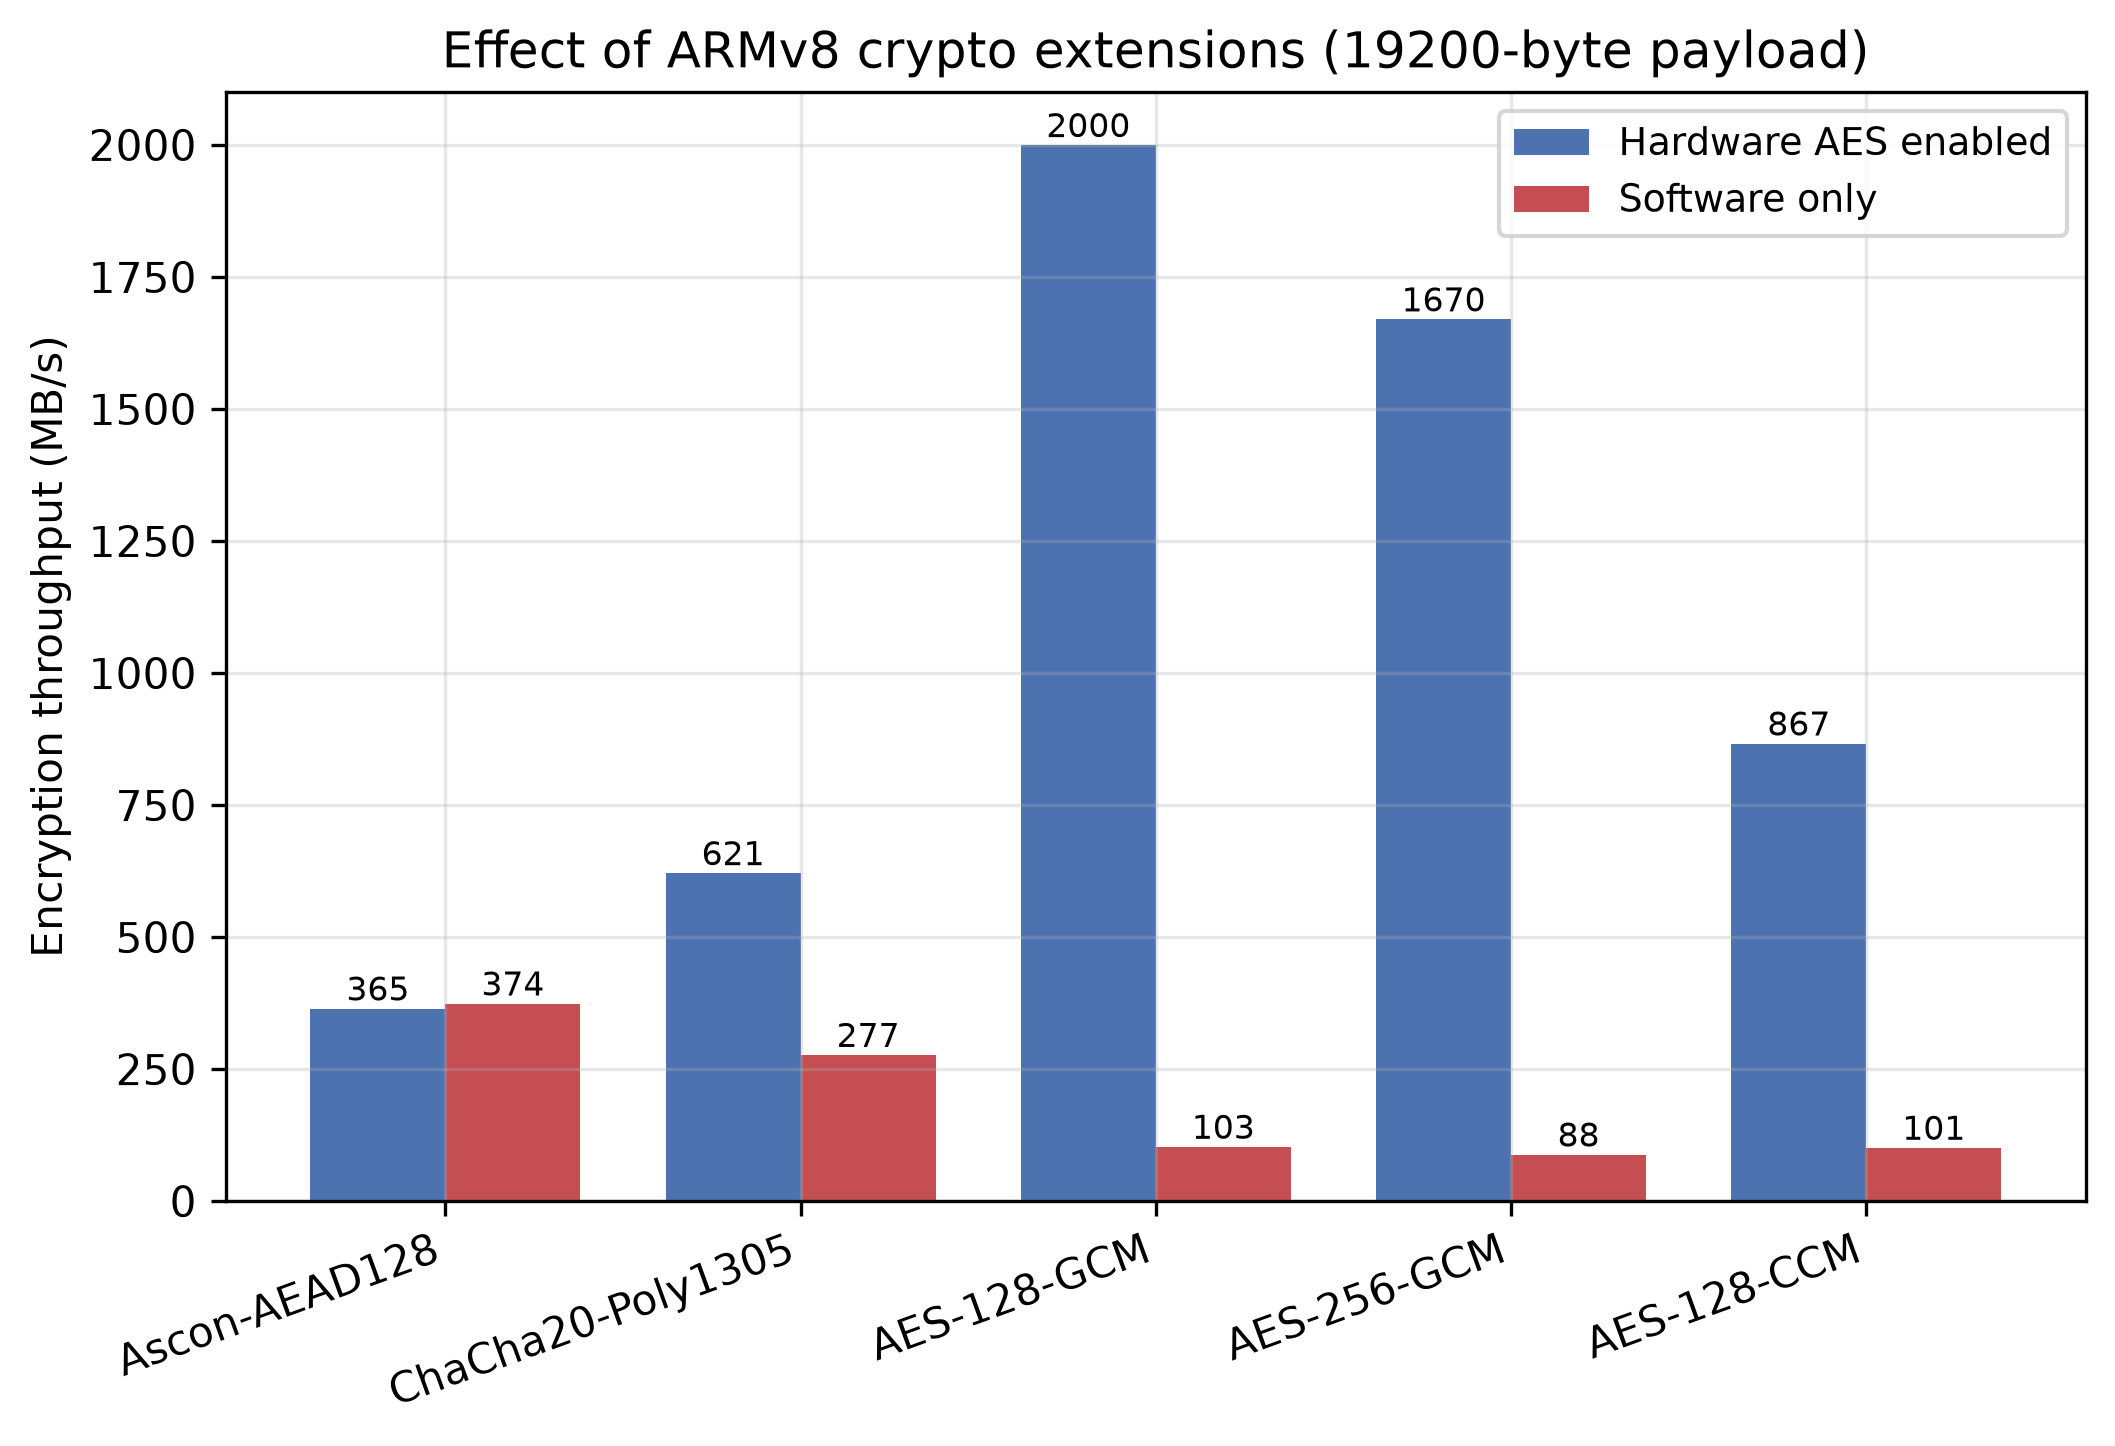
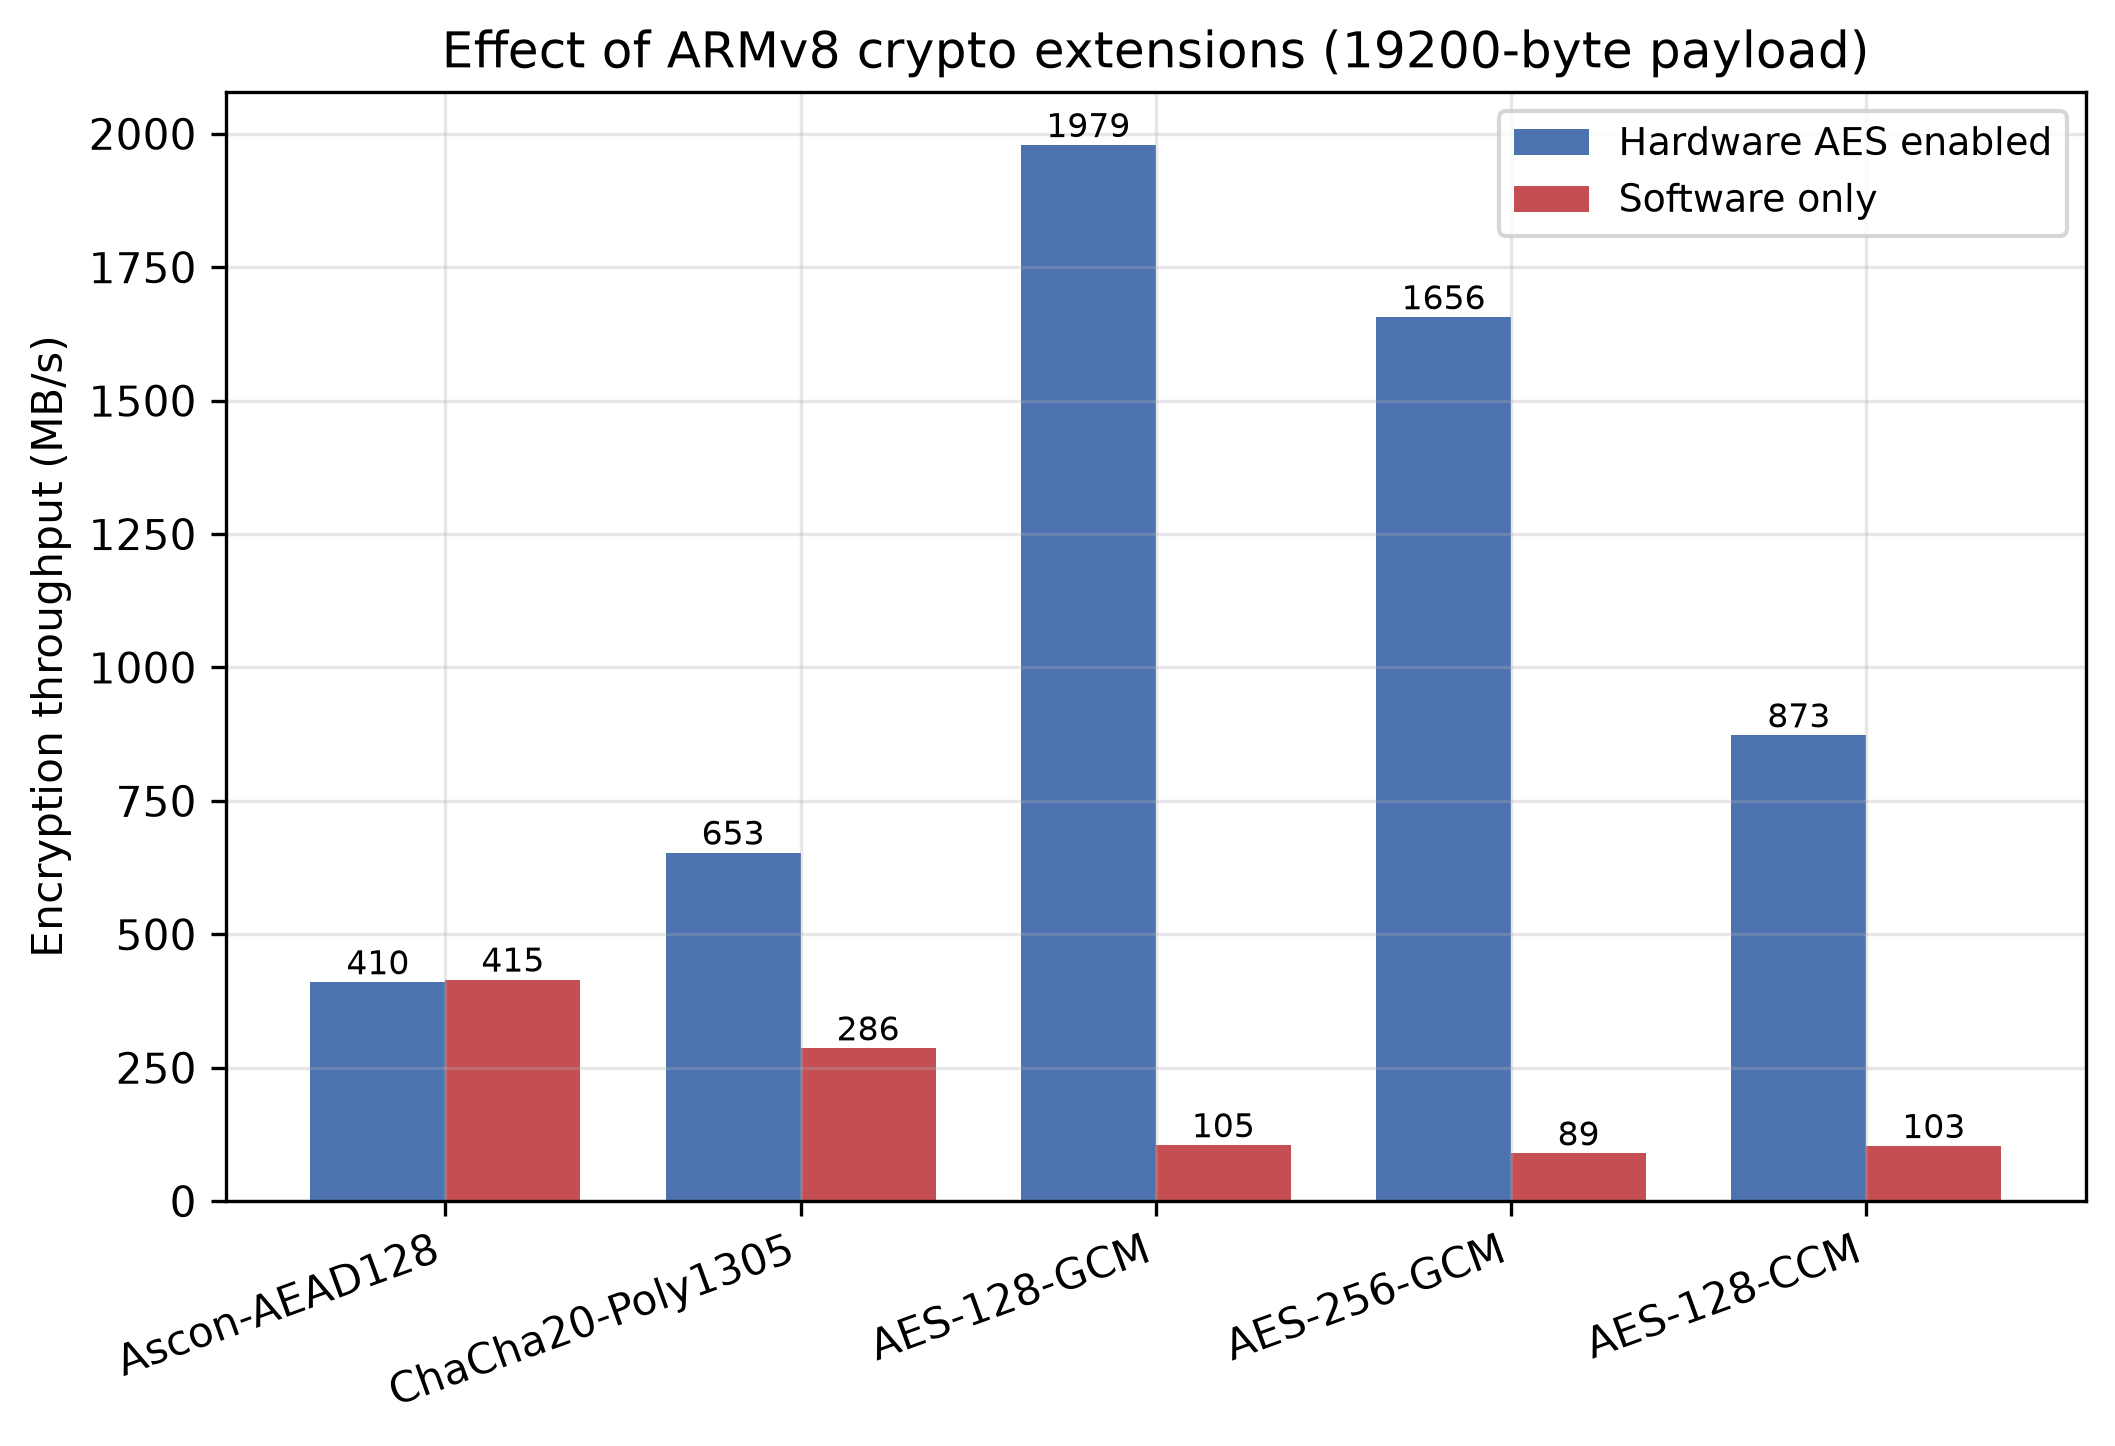
Add mean and standard deviation to timing output
Supervisor requested mean and SD alongside median and IQR. time_operation()
now returns all four; benchmark.py writes enc_mean_ms, enc_sd_ms,
dec_mean_ms and dec_sd_ms.

All four benchmark conditions re-run at 50 repetitions, governor locked to
performance at 2400 MHz. Figures regenerated.

Throughput at 19200 bytes, hardware vs software:
  Ascon-AEAD128       410.05 -> 415.05 MB/s  (+1.2%, control)
  ChaCha20-Poly1305   652.91 -> 286.17       (-56.2%)
  AES-128-GCM        1978.77 -> 104.66       (-94.7%)
  AES-256-GCM        1656.17 ->  89.33       (-94.6%)
  AES-128-CCM         872.73 -> 103.15       (-88.2%)

The previous hwaccel run recorded Ascon at 364.7 MB/s, inconsistent with
all other measurements of that condition. The new run agrees with both
perf runs, giving a tighter control result.

diff --git a/benchmark.py b/benchmark.py
@@ -86,6 +86,8 @@ def time_operation(fn, reps):
     return {
         "median_ms": statistics.median(samples) * 1000,
         "iqr_ms": (q3 - q1) * 1000,
+        "mean_ms": statistics.mean(samples) * 1000,
+        "sd_ms": statistics.stdev(samples) * 1000,
         "min_ms": samples[0] * 1000,
         "max_ms": samples[-1] * 1000,
         "cpu_time_s": cpu_total,
@@ -166,10 +168,14 @@ def run(args):
                 "reps": args.reps,
                 "enc_median_ms": round(enc["median_ms"], 6),
                 "enc_iqr_ms": round(enc["iqr_ms"], 6),
+                "enc_mean_ms": round(enc["mean_ms"], 6),
+                "enc_sd_ms": round(enc["sd_ms"], 6),
                 "enc_min_ms": round(enc["min_ms"], 6),
                 "enc_max_ms": round(enc["max_ms"], 6),
                 "dec_median_ms": round(dec["median_ms"], 6),
                 "dec_iqr_ms": round(dec["iqr_ms"], 6),
+                "dec_mean_ms": round(dec["mean_ms"], 6),
+                "dec_sd_ms": round(dec["sd_ms"], 6),
                 "enc_throughput_mbs": round(
                     size / (enc["median_ms"] / 1000) / 1e6, 4),
                 "dec_throughput_mbs": round(
